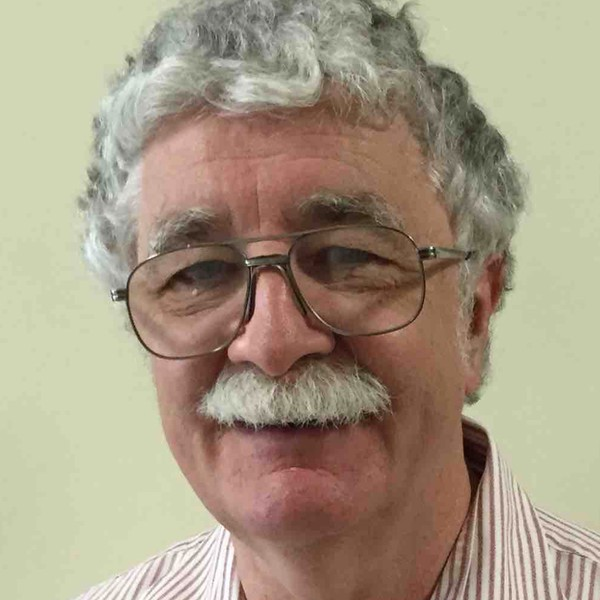
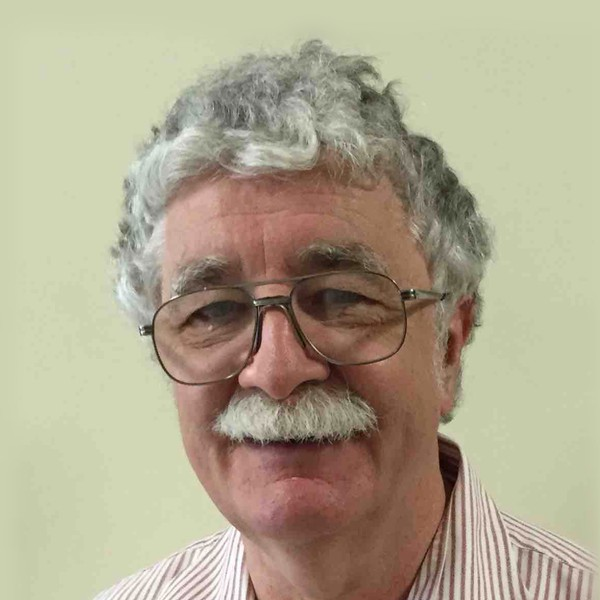
Team photos: give Viktor's hair room by extending his plain background

diff --git a/scripts/team/normalize_faces.py b/scripts/team/normalize_faces.py
@@ -9,15 +9,38 @@ Run from the repo root:  python3 scripts/team/normalize_faces.py [name.jpg ...]
 """
 import subprocess, sys
 from pathlib import Path
-from PIL import Image, ImageOps
+from PIL import Image, ImageFilter, ImageOps
 
 FACE_FRAC = 0.47   # face width / crop width
 FACE_Y = 0.55      # face centre height / crop height (low enough to keep the top of the head)
+# Per-photo tweaks: {file: (face_frac, face_y, pad)}. `pad` extends the canvas by that
+# fraction of its size on the top, left and right, filled with the background colour;
+# only use it for photos on a plain, uniform background.
+OVERRIDES = {
+    'viktor-decyk.jpg': (0.40, 0.60, 0.12),
+}
 MAX_PX = 600       # output size cap (avatars display at <= 128px, 2x = 256px)
 
 src = Path('src/assets/team/originals')
 dst = Path('src/assets/team')
 files = [src / n for n in sys.argv[1:]] or sorted(src.glob('*.jpg'))
+
+
+def pad_background(img, pad, x, y):
+    """Extend the image on the top, left and right with its own background colour."""
+    W, H = img.size
+    p = int(pad * max(W, H))
+    edge = img.crop((0, 0, W, max(H // 50, 2))).resize((1, 1), Image.BOX).getpixel((0, 0))
+    big = Image.new('RGB', (W + 2 * p, H + p), edge)
+    big.paste(img, (p, p))
+    # Soften the seam between the photo and the added border.
+    blurred = big.filter(ImageFilter.GaussianBlur(p / 6))
+    mask = Image.new('L', big.size, 255)
+    mask.paste(0, (p + p // 8, p + p // 8, p + W - p // 8, H + p))
+    mask = mask.filter(ImageFilter.GaussianBlur(p / 10))
+    big = Image.composite(blurred, big, mask)
+    return big, x + p, y + p, *big.size
+
 
 out = subprocess.run(['swift', 'scripts/team/faces.swift', *map(str, files)], capture_output=True, text=True, check=True).stdout
 for line in out.splitlines():
@@ -26,10 +49,13 @@ for line in out.splitlines():
         print(f'{path}: no face found, copied unchanged'); Image.open(path).save(dst / Path(path).name); continue
     x, y, w, h, W, H = map(int, nums)
     img = ImageOps.exif_transpose(Image.open(path)).convert('RGB')
-    S = min(int(w / FACE_FRAC), W, H)
+    frac, fy, pad = OVERRIDES.get(Path(path).name, (FACE_FRAC, FACE_Y, 0))
+    if pad:
+        img, x, y, W, H = pad_background(img, pad, x, y)
+    S = min(int(w / frac), W, H)
     cx, cy = x + w / 2, y + h / 2
     left = min(max(cx - S / 2, 0), W - S)
-    top = min(max(cy - FACE_Y * S, 0), H - S)
+    top = min(max(cy - fy * S, 0), H - S)
     crop = img.crop((round(left), round(top), round(left) + S, round(top) + S))
     if S > MAX_PX: crop = crop.resize((MAX_PX, MAX_PX), Image.LANCZOS)
     crop.save(dst / Path(path).name, quality=90)
